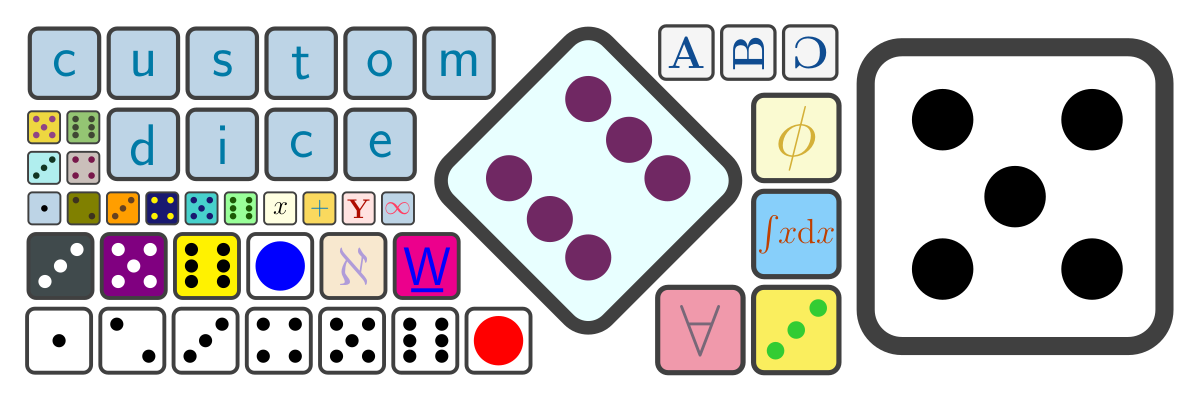
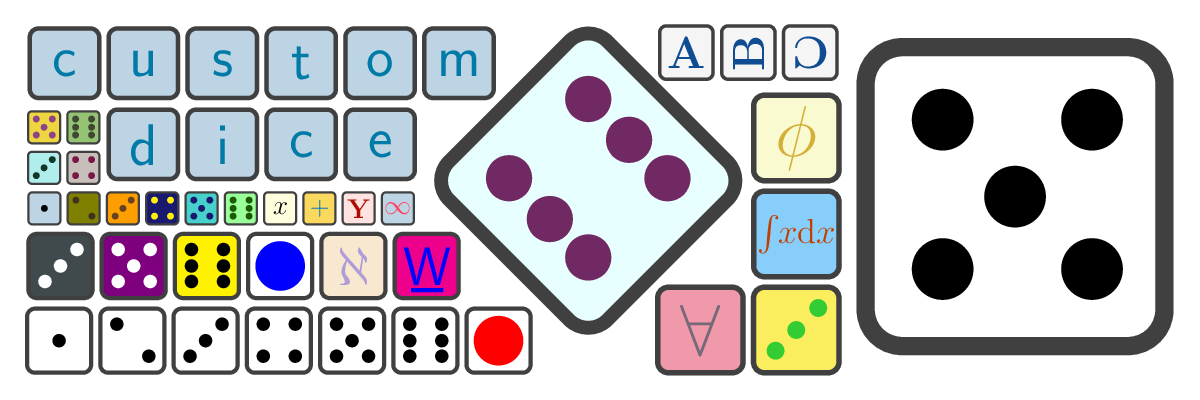
Regenerated teaser images

diff --git a/teaser-image/README.md b/teaser-image/README.md
@@ -1,3 +1,12 @@
 # Teaser image
 
-This folder contains the code and output for the teaser image used on CTAN. The output images `customdice.png` and `customdice-large.png` are distributed as CC-0. 
+This folder contains the code and output for the teaser image used on CTAN. The output images `customdice.png` and `customdice-large.png` are distributed as CC-0.
+
+## Note to self
+
+Convert the pdflatex output using
+
+```
+convert -density 72 teaser-image.pdf customdice-large.png
+convert -density 72 -resize 50% teaser-image.pdf customdice.png
+```
